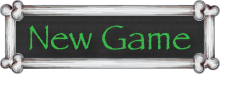
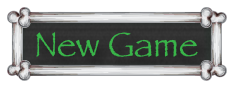
Fork Bullets
Added fork bullets
Fixed up the New Game button

diff --git a/src/Forkinator.js b/src/Forkinator.js
@@ -54,6 +54,9 @@ var Forkinator = cc.Sprite.extend({
             if ((ZH.KEYS[cc.KEY.d] || ZH.KEYS[cc.KEY.right]) && pos.x <= this._winSize.width) {
                 pos.x += dt * this.speed;
             }
+            if (ZH.KEYS[cc.KEY.space]) {
+                this.fireFork();
+            }
             this.setPosition( pos );
         }
 
@@ -62,5 +65,18 @@ var Forkinator = cc.Sprite.extend({
     setDefaultPosition:function() {
         this.pos_x = this._winSize.width/2;
         this.setPosition(cc.p(this.pos_x, this._winSize.height/10));
+    },
+
+    fireFork:function() {
+        var fork = cc.Sprite.create(s_Fork);
+        var pos = this.getPosition();
+        var delay = 4 * Math.random();
+        var curX = this.getPositionX();
+
+        fork.setPosition(pos);
+        fork.setScale(0.3);
+        var action = cc.MoveTo.create(delay, cc.p(curX, 500));
+        fork.runAction(action);
+        this._gameLayer.addChild(fork);
     }
 });

diff --git a/src/resource.js b/src/resource.js
@@ -1,5 +1,6 @@
 var s_ZombieHead = "res/skull.png";
 var s_Forkinator = "res/forkinator.png";
+var s_Fork = "res/fork.png";
 var s_NightBackground = "res/background.png";
 var s_NewGameNormal = "res/new_game_normal.png";
 var s_NewGameSelected = "res/new_game_pressed.png";
@@ -8,6 +9,7 @@ var g_resources = [
     //image
     {type:"image", src:s_ZombieHead},
     {type:"image", src:s_Forkinator},
+    {type:"image", src:s_Fork},
     {type:"image", src:s_NightBackground},
     {type:"image", src:s_NewGameNormal},
     {type:"image", src:s_NewGameSelected}
